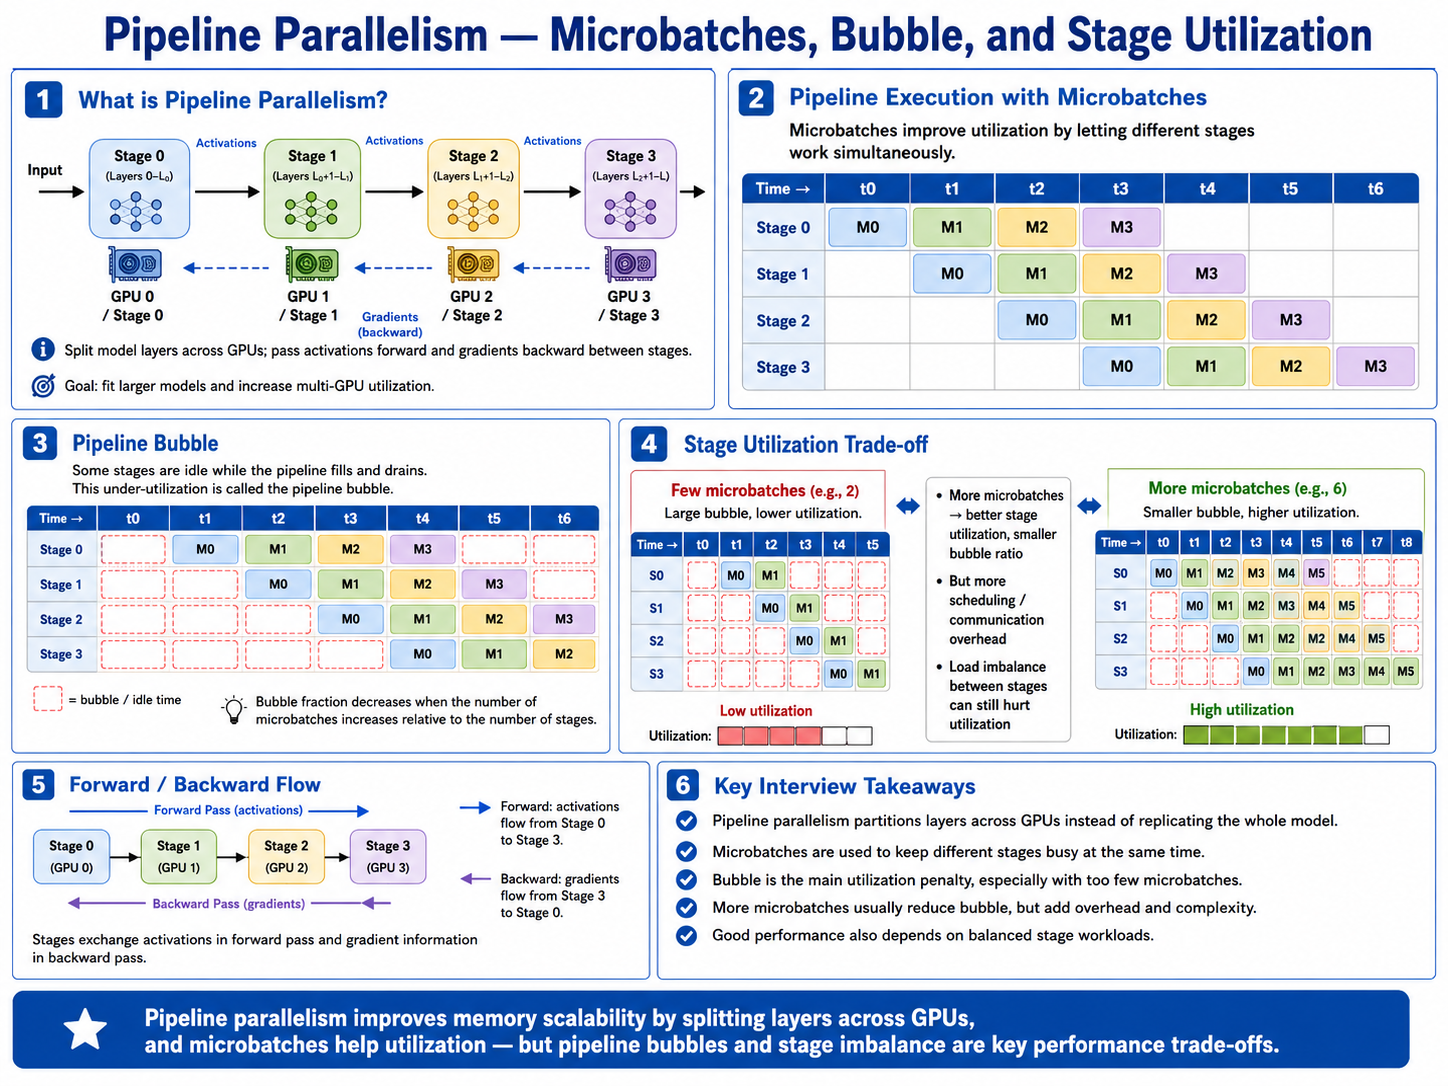
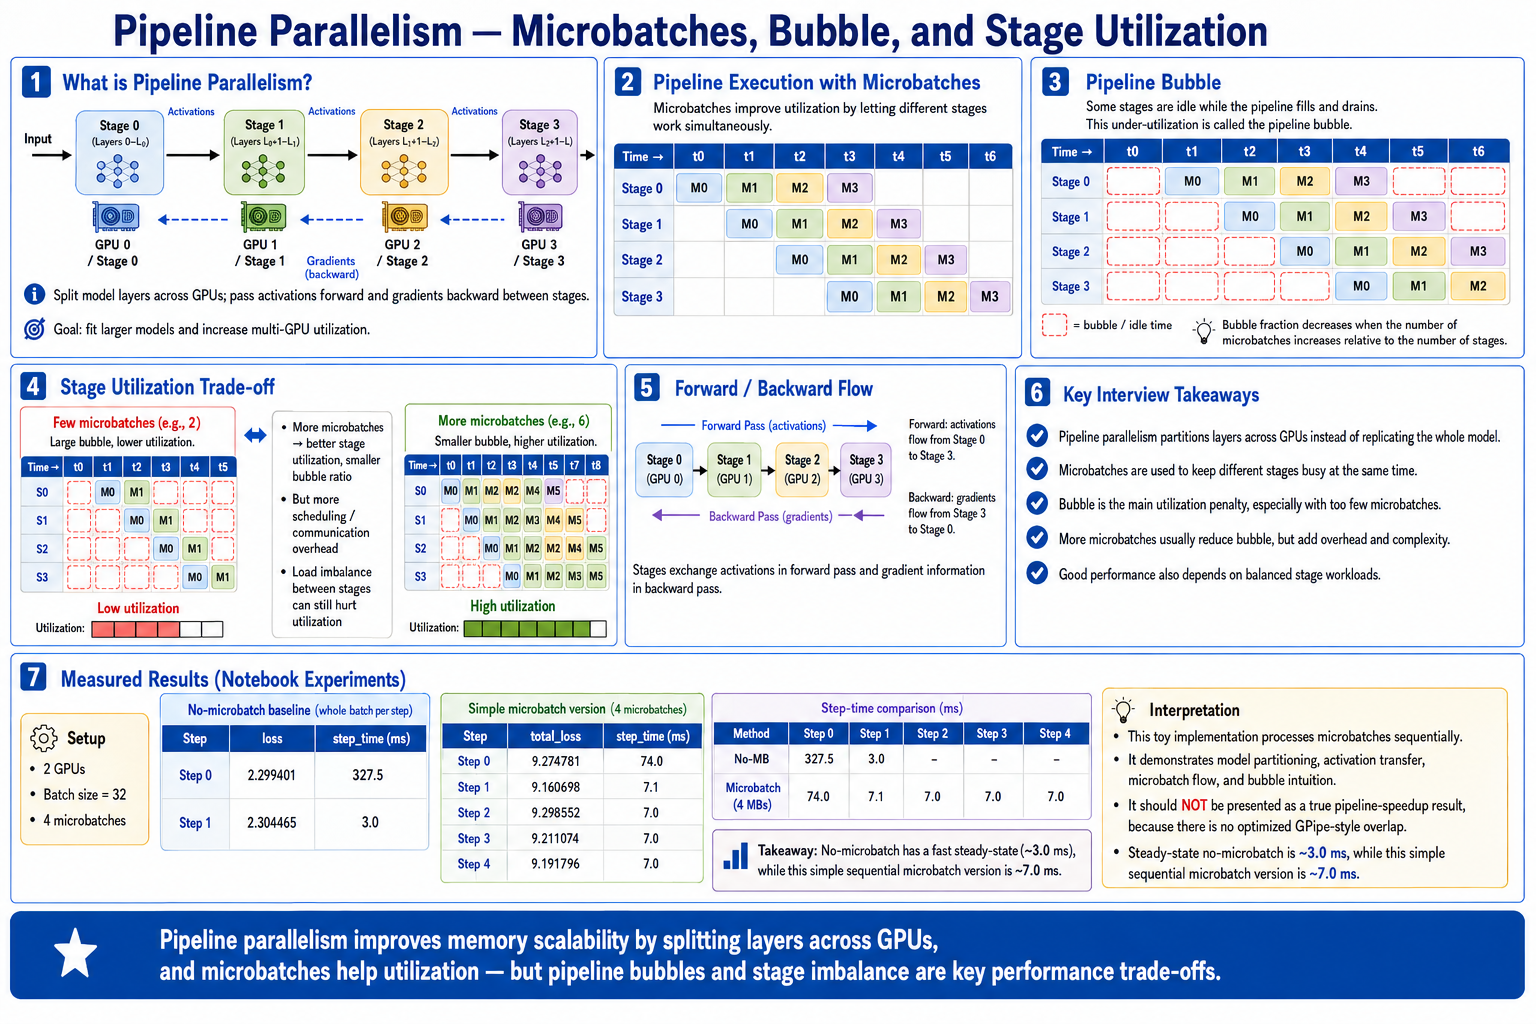
update

diff --git a/projects/nccl-parallelism.md b/projects/nccl-parallelism.md
@@ -22,6 +22,14 @@ Built a hands-on distributed systems benchmarking project to study how NCCL coll
 
 ![NCCL Ring AllReduce as ReduceScatter plus AllGather](../assets/projects/nccl-parallelism/nccl-ring-allreduce-reducescatter-allgather.png)
 
+![NCCL AllReduce performance versus message size on 2x NVIDIA T4](../assets/projects/nccl-parallelism/nccl-allreduce-performance-vs-message-size.png)
+
+![NCCL AllGather performance versus message size on 2x NVIDIA T4](../assets/projects/nccl-parallelism/nccl-allgather-performance-vs-message-size.png)
+
+![NCCL ReduceScatter performance versus message size on 2x NVIDIA T4](../assets/projects/nccl-parallelism/nccl-reducescatter-performance-vs-message-size.png)
+
+![NCCL collective performance comparison: AllReduce versus ReduceScatter plus AllGather](../assets/projects/nccl-parallelism/nccl-collective-performance-allreduce-vs-rs-ag.png)
+
 ![Tensor parallelism column-parallel versus row-parallel communication](../assets/projects/nccl-parallelism/tensor-parallel-column-row-communication.png)
 
 ![Pipeline parallelism microbatches, bubble, and stage utilization](../assets/projects/nccl-parallelism/pipeline-parallelism-microbatches-bubble-stage-utilization.png)
